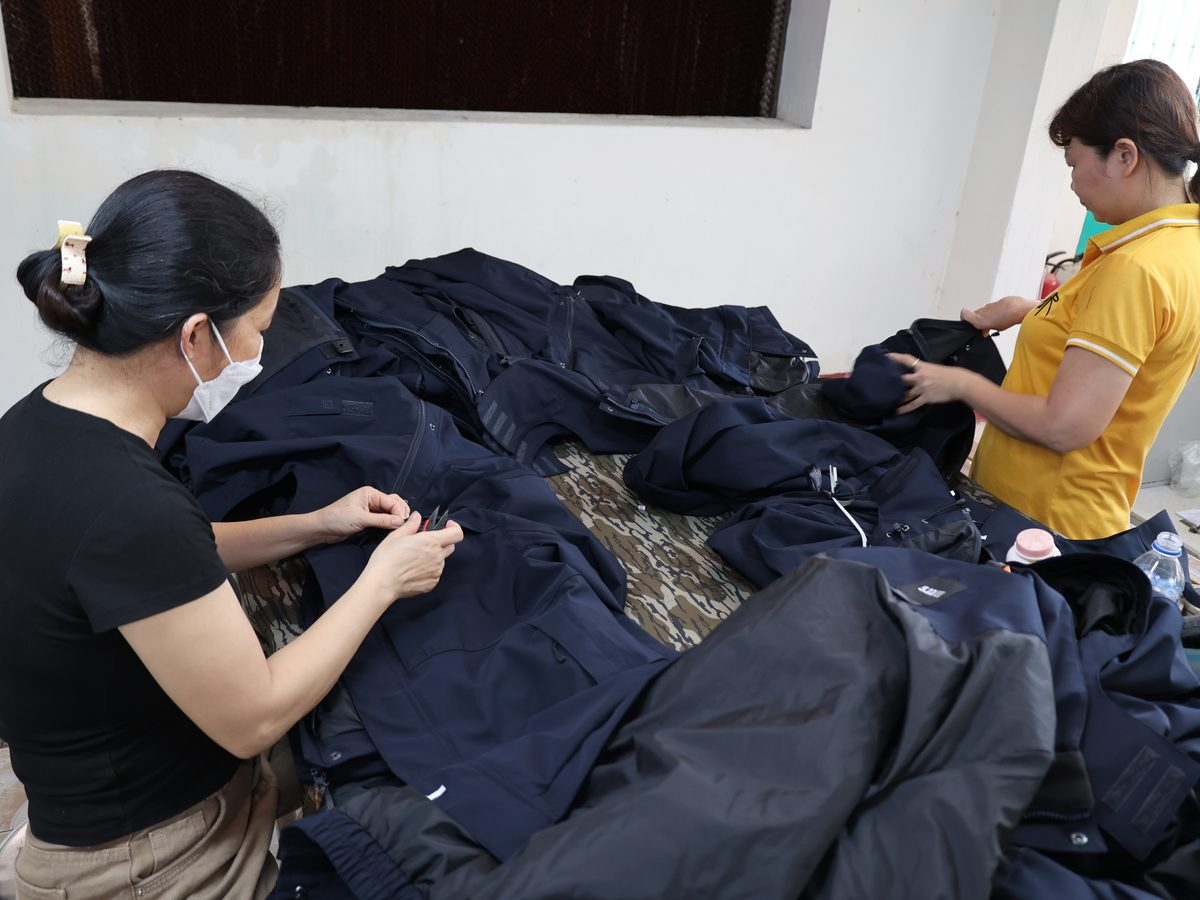
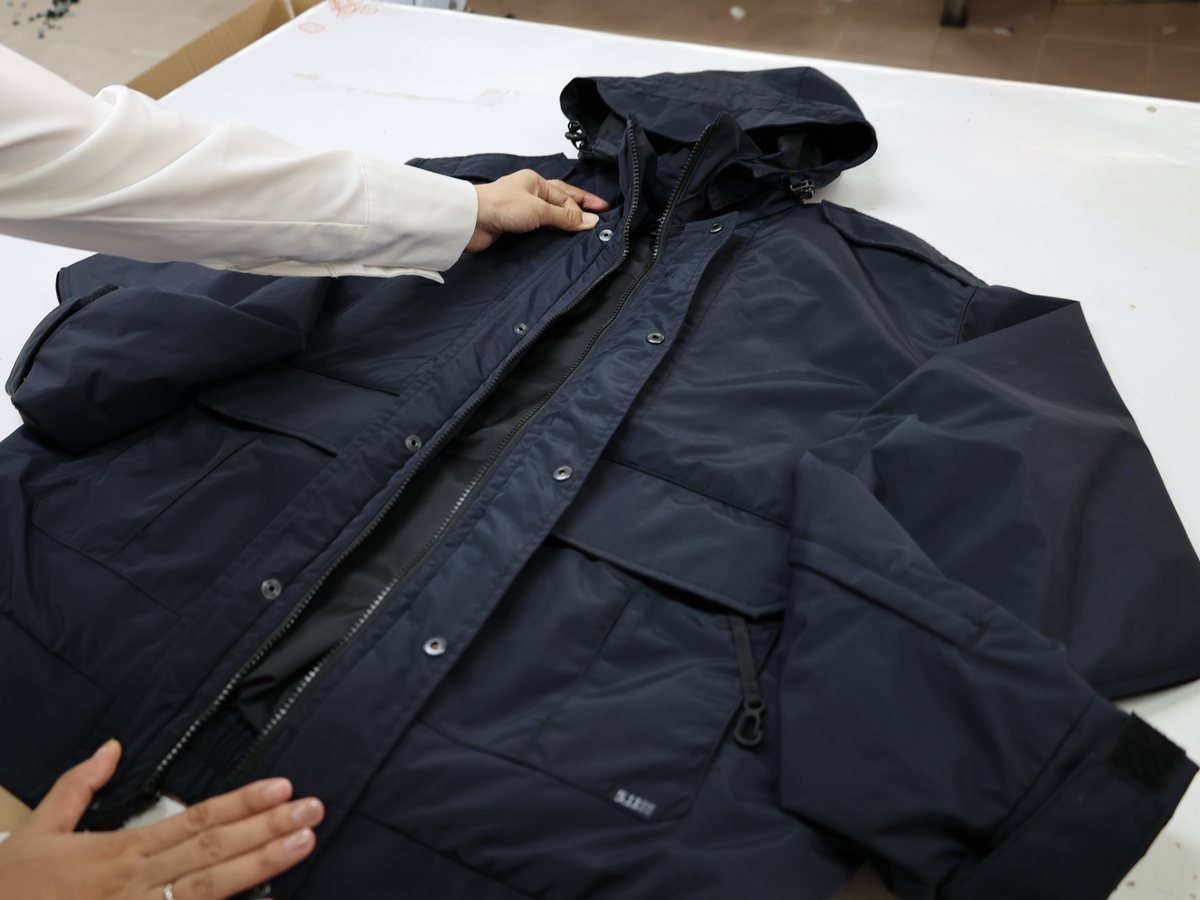
Đổi ảnh mục Câu chuyện của chúng tôi sang ảnh áo khoác hoàn thiện (IMG_2473) chuyên nghiệp hơn

diff --git a/public/about.html b/public/about.html
@@ -49,7 +49,7 @@
         <div class="split">
           <div class="split__media" data-reveal>
             <div class="media-frame">
-              <img src="assets/img/facility.jpg?v=3" alt="Kiểm tra chất lượng sản phẩm tại May Đông Thành" width="800" height="600">
+              <img src="assets/img/facility.jpg?v=4" alt="Sản phẩm áo khoác hoàn thiện tại May Đông Thành" width="800" height="600">
               <span class="media-tag" data-en="Quang Ngai · Vietnam">Quảng Ngãi · Việt Nam</span>
             </div>
           </div>
